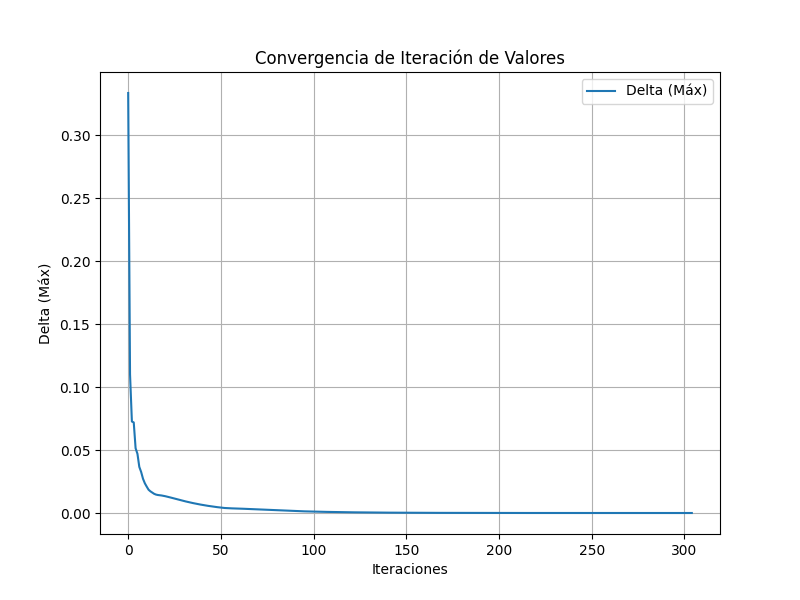
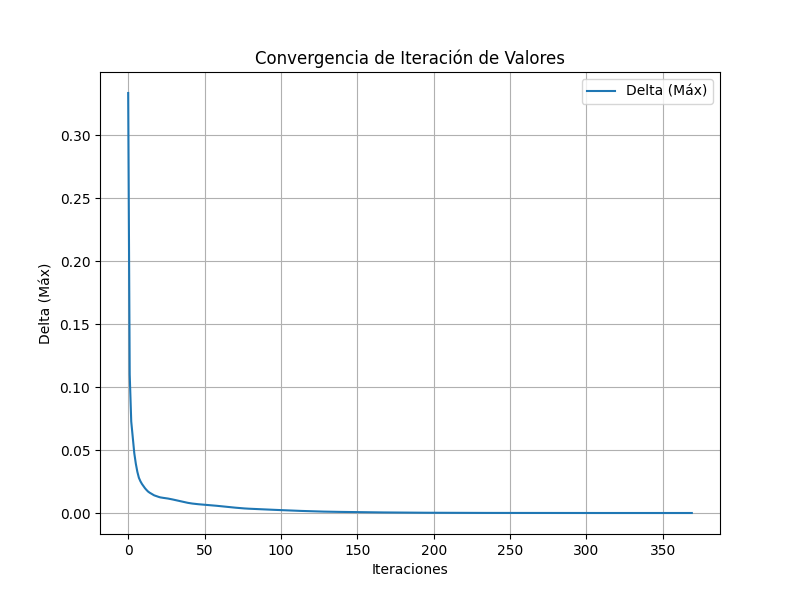
Se actualiza el código para elegir frozen lake 4x4 u 8x8

diff --git a/main.py b/main.py
@@ -1,25 +1,50 @@
 # main.py
+import tkinter as tk
 from frozenlake.environment import create_environment
 from frozenlake.algorithms import value_iteration
 from frozenlake.utils import save_policy, plot_and_save_convergence, plot_and_save_policy_heatmap, plot_value_heatmap
 from frozenlake.evaluation import evaluate_policy
 
+def choose_environment_size():
+    """
+    Interfaz gráfica para elegir el tamaño del entorno.
+    """
+    def on_selection(map_size):
+        root.destroy()  # Cierra la ventana de selección
+        main_frozenlake(map_size)  # Inicia FrozenLake con el tamaño seleccionado
 
-def main_frozenlake():
+    # Crear la ventana principal
+    root = tk.Tk()
+    root.title("Seleccionar tamaño del entorno")
+    root.geometry("300x150")
+
+    # Título
+    label = tk.Label(root, text="Elige el tamaño del entorno", font=("Arial", 14))
+    label.pack(pady=20)
+
+    # Botones de selección
+    btn_4x4 = tk.Button(root, text="4x4", font=("Arial", 12), command=lambda: on_selection("4x4"))
+    btn_4x4.pack(side=tk.LEFT, padx=20)
+
+    btn_8x8 = tk.Button(root, text="8x8", font=("Arial", 12), command=lambda: on_selection("8x8"))
+    btn_8x8.pack(side=tk.RIGHT, padx=20)
+
+    # Mostrar la ventana
+    root.mainloop()
+
+def main_frozenlake(map_size):
     # Crear el entorno
-    env = create_environment(render_mode="human")
+    env = create_environment(map_size=map_size, render_mode="human")
 
     # Entrenar usando iteración de valores
     policy, V, deltas = value_iteration(env)
 
-    # Guardar la política óptima
+    # Guardar la política óptima y Guardar gráficas
+    env_shape = (4, 4) if map_size == "4x4" else (8, 8)
     save_policy(policy)
     plot_and_save_convergence(deltas)
-    plot_and_save_policy_heatmap(policy)
-    plot_value_heatmap(V)
-
-    # Visualizar el mapa de calor de los valores
-    # plot_value_heatmap(V)
+    plot_and_save_policy_heatmap(policy, env_shape=env_shape)
+    plot_value_heatmap(V, env_shape=env_shape)
 
     # Evaluar política
     success_rate, average_reward, average_steps = evaluate_policy(env, policy, n_episodes=10, render=True)
@@ -30,4 +55,4 @@ def main_frozenlake():
 
 
 if __name__ == "__main__":
-    main_frozenlake()
+    choose_environment_size()

diff --git a/frozenlake/environment.py b/frozenlake/environment.py
@@ -2,7 +2,7 @@
 import gymnasium as gym
 
 
-def create_environment(render_mode=None):
+def create_environment(map_size="4x4", render_mode=None):
     """
     Crea y retorna el entorno FrozenLake-v1.
 
@@ -12,5 +12,5 @@ def create_environment(render_mode=None):
     Returns:
         env: Instancia del entorno Gymnasium.
     """
-    env = gym.make("FrozenLake-v1", is_slippery=True, render_mode=render_mode)
+    env = gym.make("FrozenLake-v1", map_name=map_size, is_slippery=True, render_mode=render_mode)
     return env
